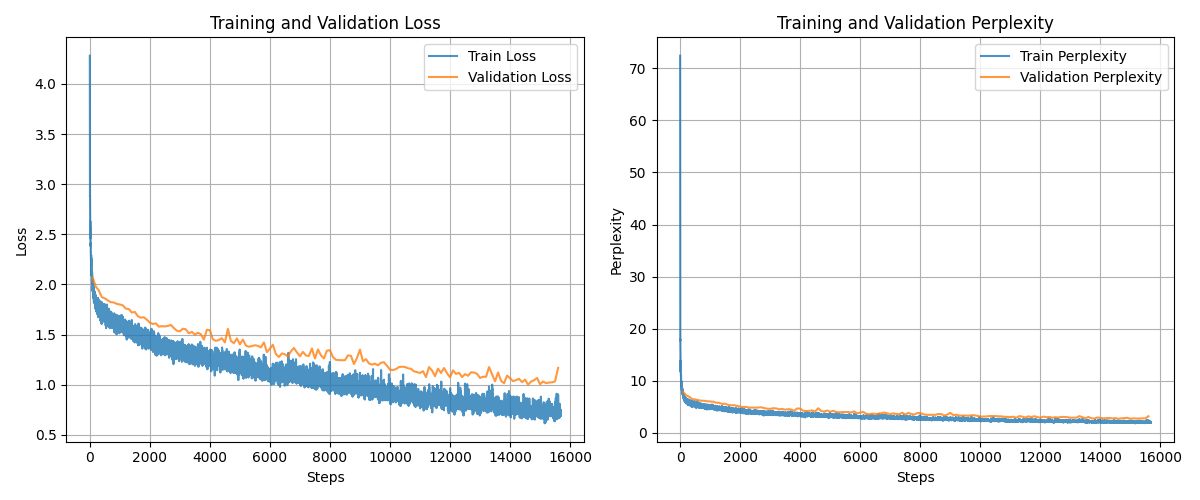
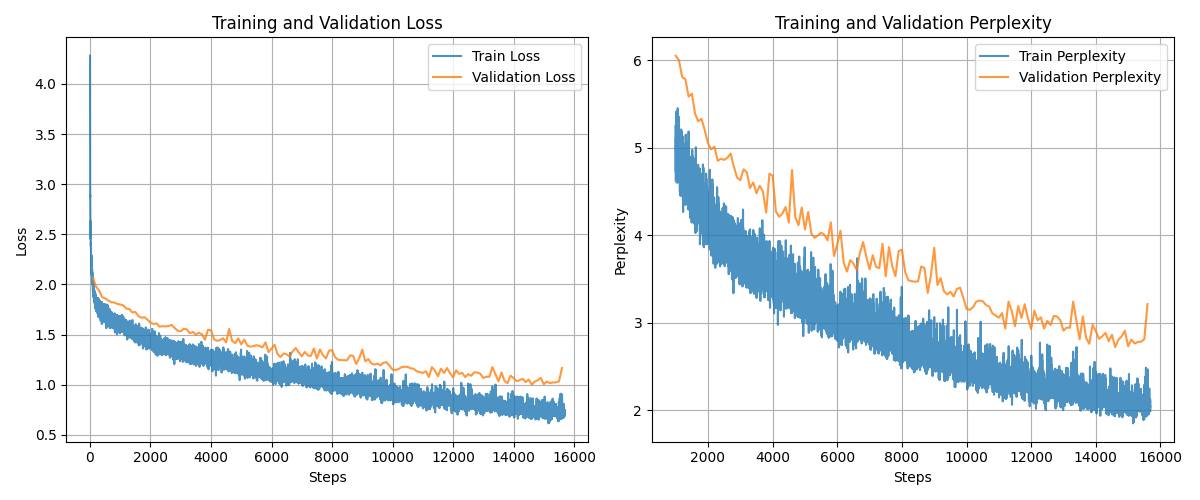
add differential transformer

diff --git a/models/transformer/attention.py b/models/transformer/attention.py
@@ -1,10 +1,29 @@
 import math
-from typing import Optional
+from typing import Optional, Tuple
 
 import torch
 from torch import nn
 
 from config import TransformerConfig
+from models.transformer.layer_norm import RMSNorm
+
+
+def get_rope_embedding(config: TransformerConfig) -> Tuple[torch.Tensor, torch.Tensor]:
+    head_dim = config.hidden_size // config.num_heads
+    # Get theta
+    i = torch.arange(0, head_dim, step=2).float()
+    theta = config.base ** (-i / head_dim)
+    # Get tensor of positions x theta
+    pos = torch.arange(0, config.seq_len).float()
+    m_theta = torch.outer(pos, theta)  # (seq_len, hidden_size/2)
+    # Get cos and sin
+    cos_m_theta = torch.cos(m_theta)  # (seq_len, hidden_size/2)
+    sin_m_theta = torch.sin(m_theta)  # (seq_len, hidden_size/2)
+    # Repeat each value to get (cos1,cos1,cos2,cos2,...) and (sin1,sin1,sin2,sin2,...)
+    cos_m_theta = cos_m_theta.repeat_interleave(2, dim=1)  # (seq_len, hidden_size)
+    sin_m_theta = sin_m_theta.repeat_interleave(2, dim=1)  # (seq_len, hidden_size)
+
+    return cos_m_theta.to(config.device), sin_m_theta.to(config.device)
 
 
 class MultiHeadAttention(nn.Module):
@@ -14,7 +33,7 @@ class MultiHeadAttention(nn.Module):
         self.head_dim = config.hidden_size // config.num_heads
         self.is_rope = is_rope
         if self.is_rope:
-            self.cos_pos_emb, self.sin_pos_emb = self._get_rope_embedding()
+            self.cos_pos_emb, self.sin_pos_emb = get_rope_embedding(config)
 
         hidden_size = config.hidden_size
         self.q_proj = nn.Linear(hidden_size, hidden_size, bias=False)
@@ -22,26 +41,10 @@ class MultiHeadAttention(nn.Module):
         self.v_proj = nn.Linear(hidden_size, hidden_size, bias=False)
         self.o_proj = nn.Linear(hidden_size, hidden_size, bias=False)
 
-    def _get_rope_embedding(self) -> torch.Tensor:
-        # Get theta
-        i = torch.arange(0, self.head_dim, step=2).float()
-        theta = self.config.base ** (-i / self.head_dim)
-        # Get tensor of positions x theta
-        pos = torch.arange(0, self.config.seq_len).float()
-        m_theta = torch.outer(pos, theta)  # (seq_len, hidden_size/2)
-        # Get cos and sin
-        cos_m_theta = torch.cos(m_theta)  # (seq_len, hidden_size/2)
-        sin_m_theta = torch.sin(m_theta)  # (seq_len, hidden_size/2)
-        # Repeat each value to get (cos1,cos1,cos2,cos2,...) and (sin1,sin1,sin2,sin2,...)
-        cos_m_theta = cos_m_theta.repeat_interleave(2, dim=1)  # (seq_len, hidden_size)
-        sin_m_theta = sin_m_theta.repeat_interleave(2, dim=1)  # (seq_len, hidden_size)
-
-        return cos_m_theta.to(self.config.device), sin_m_theta.to(self.config.device)
-
     def apply_rope_embedding(self, x: torch.Tensor) -> torch.Tensor:
-        batch_size, seq_len, _ = x.size()
-        cos_pos_emb = self.cos_pos_emb[:seq_len, :].unsqueeze(0)
-        sin_pos_emb = self.sin_pos_emb[:seq_len, :].unsqueeze(0)
+        batch_size, _, seq_len, _ = x.size()
+        cos_pos_emb = self.cos_pos_emb[:seq_len, :].unsqueeze(0).unsqueeze(0)
+        sin_pos_emb = self.sin_pos_emb[:seq_len, :].unsqueeze(0).unsqueeze(0)
         inv_x = torch.stack((-x[..., 1::2], x[..., ::2]), dim=-1).flatten(-2)
         return x * cos_pos_emb + inv_x * sin_pos_emb
 
@@ -66,9 +69,8 @@ class MultiHeadAttention(nn.Module):
         ).transpose(1, 2)
         # Apply rope embedding if provided
         if self.is_rope:
-            for i in range(self.config.num_heads):
-                q[:, i, :, :] = self.apply_rope_embedding(q[:, i, :, :])
-                k[:, i, :, :] = self.apply_rope_embedding(k[:, i, :, :])
+            q = self.apply_rope_embedding(q)
+            k = self.apply_rope_embedding(k)
         # Compute attention
         attn_scores = torch.matmul(q, k.transpose(-2, -1)) / math.sqrt(self.head_dim)
         # Apply mask by setting masked positions to -inf
@@ -76,6 +78,93 @@ class MultiHeadAttention(nn.Module):
             attn_scores = attn_scores.masked_fill(mask, torch.finfo(torch.float).min)
         attn_weights = torch.softmax(attn_scores, dim=-1)
         output = torch.matmul(attn_weights, v)
+        # Join back the heads
+        batch_size, _, seq_len, _ = output.size()
+        output = output.transpose(1, 2).contiguous().view(batch_size, seq_len, -1)
+        output = self.o_proj(output)
+        return output
+
+
+class MultiHeadDifferentialAttention(nn.Module):
+    def __init__(
+        self, config: TransformerConfig, layer_id: int, is_rope: bool = False
+    ) -> None:
+        super().__init__()
+        self.config = config
+        self.head_dim = config.hidden_size // config.num_heads
+        self.qk_head_dim = self.head_dim // 2
+
+        self.is_rope = is_rope
+        if self.is_rope:
+            self.cos_pos_emb, self.sin_pos_emb = get_rope_embedding(config)
+
+        hidden_size = config.hidden_size
+        self.q_proj = nn.Linear(hidden_size, hidden_size, bias=False)
+        self.k_proj = nn.Linear(hidden_size, hidden_size, bias=False)
+        self.v_proj = nn.Linear(hidden_size, hidden_size, bias=False)
+        self.o_proj = nn.Linear(hidden_size, hidden_size, bias=False)
+
+        self.lambda_init = 0.8 - 0.6 * math.exp(-0.3 * layer_id)
+        self.lambda_q1 = nn.Parameter(torch.normal(0, 0.1, size=(self.head_dim,)))
+        self.lambda_k1 = nn.Parameter(torch.normal(0, 0.1, size=(self.head_dim,)))
+        self.lambda_q2 = nn.Parameter(torch.normal(0, 0.1, size=(self.head_dim,)))
+        self.lambda_k2 = nn.Parameter(torch.normal(0, 0.1, size=(self.head_dim,)))
+        self.group_norm = RMSNorm(self.head_dim)
+
+    def apply_rope_embedding(self, x: torch.Tensor) -> torch.Tensor:
+        batch_size, _, _, seq_len, head_dim = x.size()
+        cos_pos_emb = (
+            self.cos_pos_emb[:seq_len, :head_dim].unsqueeze(0).unsqueeze(0).unsqueeze(0)
+        )
+        sin_pos_emb = (
+            self.sin_pos_emb[:seq_len, :head_dim].unsqueeze(0).unsqueeze(0).unsqueeze(0)
+        )
+        inv_x = torch.stack((-x[..., 1::2], x[..., ::2]), dim=-1).flatten(-2)
+        return x * cos_pos_emb + inv_x * sin_pos_emb
+
+    def forward(
+        self,
+        q: torch.Tensor,
+        k: torch.Tensor,
+        v: torch.Tensor,
+        mask: Optional[torch.Tensor] = None,
+    ) -> torch.Tensor:
+        q, k, v = self.q_proj(q), self.k_proj(k), self.v_proj(v)
+        # Reshape q, k, v to match the number of heads
+        # q, k: (b_size, 2, n_heads, seq_len, head_dim/2)
+        # v: (b_size, n_heads, seq_len, head_dim)
+        q = q.view(
+            q.size(0), q.size(1), self.config.num_heads, 2, self.qk_head_dim
+        ).transpose(1, 3)
+        k = k.view(
+            k.size(0), k.size(1), self.config.num_heads, 2, self.qk_head_dim
+        ).transpose(1, 3)
+        v = v.view(
+            v.size(0), v.size(1), self.config.num_heads, self.head_dim
+        ).transpose(1, 2)
+        # Apply rope embedding if provided
+        if self.is_rope:
+            q = self.apply_rope_embedding(q)
+            k = self.apply_rope_embedding(k)
+        # Compute attention
+        attn_scores = torch.matmul(q, k.transpose(-2, -1)) / math.sqrt(self.qk_head_dim)
+        # Apply mask by setting masked positions to -inf
+        if mask is not None:
+            attn_scores = attn_scores.masked_fill(mask, torch.finfo(torch.float).min)
+        # Compute softmax differential
+        lambda_1 = torch.exp(torch.sum(self.lambda_q1 * self.lambda_k1, dim=-1)).to(
+            self.config.device
+        )
+        lambda_2 = torch.exp(torch.sum(self.lambda_q2 * self.lambda_k2, dim=-1)).to(
+            self.config.device
+        )
+        lambda_sum = lambda_1 - lambda_2 + self.lambda_init
+        attn_weights = torch.softmax(
+            attn_scores[:, 0, ...], dim=-1
+        ) - lambda_sum * torch.softmax(attn_scores[:, 1, ...], dim=-1)
+        output = torch.matmul(attn_weights, v)
+        # Group norm
+        output = (1 - self.lambda_init) * self.group_norm(output)
         # Join back the heads
         batch_size, _, seq_len, _ = output.size()
         output = output.transpose(1, 2).contiguous().view(batch_size, seq_len, -1)

diff --git a/train.py b/train.py
@@ -11,7 +11,7 @@ from torch.utils.tensorboard import SummaryWriter
 from tqdm import tqdm
 
 from config import TransformerConfig
-from models.transformer.transformer import Transformer
+from models.transformer.transformer import DifferentialTransformer, Transformer
 from utils.tokenizer import Tokenizer
 
 
@@ -60,7 +60,7 @@ def cosine_lr_schedule(step: int, max_steps: int) -> float:
 
 
 def validate(
-    model: Union[Transformer],
+    model: Union[Transformer, DifferentialTransformer],
     tokenizer: Tokenizer,
     val_dataloader: DataLoader,
 ):
@@ -94,12 +94,21 @@ def plot_graphs(train_losses, val_losses, steps):
     plt.legend()
     plt.grid(True)
 
+    # Filter data from step 1000 onwards
+    start_idx = next(i for i, step in enumerate(steps) if step >= 1000)
+    filtered_steps = steps[start_idx:]
+    filtered_train_losses = train_losses[start_idx:]
+    val_steps = [args.eval_every * (i + 1) for i in range(len(val_losses))]
+    val_start_idx = next(i for i, step in enumerate(val_steps) if step >= 1000)
+    filtered_val_steps = val_steps[val_start_idx:]
+    filtered_val_losses = val_losses[val_start_idx:]
+
     # Plot perplexity
     plt.subplot(1, 2, 2)
-    train_ppl = [torch.exp(torch.tensor(loss)).item() for loss in train_losses]
-    val_ppl = [torch.exp(torch.tensor(loss)).item() for loss in val_losses]
-    plt.plot(steps, train_ppl, label="Train Perplexity", alpha=0.8)
-    plt.plot(val_steps, val_ppl, label="Validation Perplexity", alpha=0.8)
+    train_ppl = [torch.exp(torch.tensor(loss)).item() for loss in filtered_train_losses]
+    val_ppl = [torch.exp(torch.tensor(loss)).item() for loss in filtered_val_losses]
+    plt.plot(filtered_steps, train_ppl, label="Train Perplexity", alpha=0.8)
+    plt.plot(filtered_val_steps, val_ppl, label="Validation Perplexity", alpha=0.8)
     plt.xlabel("Steps")
     plt.ylabel("Perplexity")
     plt.title("Training and Validation Perplexity")
@@ -152,6 +161,18 @@ def train():
             base=10000.0,
         )
         model = Transformer(config=config).to(args.device)
+    elif args.model_type == "diff-transformer":
+        config = TransformerConfig(
+            seq_len=args.seq_len,
+            vocab_size=tokenizer.vocab_size,
+            device=args.device,
+            num_layers=4,
+            hidden_size=128,
+            ffn_size=128 * 4 * 2 // 3,
+            num_heads=4,
+            base=10000.0,
+        )
+        model = DifferentialTransformer(config=config).to(args.device)
     else:
         raise ValueError(f"Model type {args.model_type} not supported")
 
@@ -259,8 +280,8 @@ def parse_args():
         "--model-type",
         type=str,
         default="transformer",
-        choices=["transformer"],
-        help="Model type (currently only transformer is supported)",
+        choices=["transformer", "diff-transformer"],
+        help="Model type",
     )
     parser.add_argument(
         "--seq-len", type=int, default=32, help="Max sequence length of the model"

diff --git a/models/transformer/transformer.py b/models/transformer/transformer.py
@@ -7,7 +7,7 @@ import torch.nn.functional as F
 from torch import nn
 
 from config import TransformerConfig
-from models.transformer.block import DecoderBlock
+from models.transformer.block import DecoderBlock, DifferentialDecoderBlock
 
 
 class Transformer(nn.Module):
@@ -35,6 +35,55 @@ class Transformer(nn.Module):
         # Expand mask for batch size and number of heads
         causal_mask = causal_mask.unsqueeze(0).unsqueeze(0)
         causal_mask = causal_mask.expand(batch_size, 1, seq_len, seq_len).to(x.device)
+
+        return pad_mask | causal_mask
+
+    def forward(
+        self, input_ids: torch.Tensor, labels: Optional[torch.Tensor] = None
+    ) -> torch.Tensor:
+        causal_mask = self._make_padded_causal_mask(input_ids)
+
+        inputs = self.token_emb(input_ids)
+        for block in self.decoder:
+            inputs = block(inputs, causal_mask)
+        logits = self.lm_head(inputs)
+
+        loss = None
+        if labels is not None:
+            loss = F.cross_entropy(
+                logits.view(-1, self.config.vocab_size), labels.view(-1)
+            )
+
+        return logits, loss
+
+
+class DifferentialTransformer(nn.Module):
+    def __init__(self, config: TransformerConfig):
+        super().__init__()
+        self.config = config
+
+        self.token_emb = nn.Embedding(config.vocab_size, config.hidden_size)
+        self.decoder = nn.ModuleList(
+            [DifferentialDecoderBlock(config, i) for i in range(config.num_layers)]
+        )
+        self.lm_head = nn.Linear(config.hidden_size, config.vocab_size)
+
+    def _make_padded_causal_mask(self, x: torch.Tensor) -> torch.Tensor:
+        """Creates a causal mask which prevents attending to padding tokens."""
+        # Create padding mask (b_size, 1, seq_len, 1)
+        # No padding in this training so pad_mask is always False
+        pad_mask = torch.zeros(x.size(0), 1, 1, x.size(1), 1, dtype=torch.bool).to(
+            x.device
+        )
+        # Create causal mask
+        batch_size, seq_len = x.size(0), x.size(1)
+        # Create upper triangular matrix
+        causal_mask = torch.triu(torch.ones(seq_len, seq_len), diagonal=1).bool()
+        # Expand mask for batch size and number of heads
+        causal_mask = causal_mask.unsqueeze(0).unsqueeze(0).unsqueeze(0)
+        causal_mask = causal_mask.expand(batch_size, 1, 1, seq_len, seq_len).to(
+            x.device
+        )
 
         return pad_mask | causal_mask
 

diff --git a/models/transformer/block.py b/models/transformer/block.py
@@ -2,7 +2,10 @@ import torch
 from torch import nn
 
 from config import TransformerConfig
-from models.transformer.attention import MultiHeadAttention
+from models.transformer.attention import (
+    MultiHeadAttention,
+    MultiHeadDifferentialAttention,
+)
 from models.transformer.feed_forward import SwiGLUFeedForwardLayer
 from models.transformer.layer_norm import RMSNorm
 
@@ -12,6 +15,25 @@ class DecoderBlock(nn.Module):
         super().__init__()
         self.config = config
         self.attn = MultiHeadAttention(config, is_rope=True)
+        self.ffn = SwiGLUFeedForwardLayer(config.hidden_size, config.ffn_size)
+        self.rms_norm = RMSNorm((config.seq_len, config.hidden_size))
+
+    def forward(self, x: torch.Tensor, causal_mask: torch.Tensor) -> torch.Tensor:
+        # Attention with causal mask
+        x = self.rms_norm(x)
+        x = x + self.attn(x, x, x, mask=causal_mask)
+        # Feed-forward
+        x = self.rms_norm(x)
+        x = x + self.ffn(x)
+
+        return x
+
+
+class DifferentialDecoderBlock(nn.Module):
+    def __init__(self, config: TransformerConfig, layer_id: int) -> None:
+        super().__init__()
+        self.config = config
+        self.attn = MultiHeadDifferentialAttention(config, layer_id, is_rope=True)
         self.ffn = SwiGLUFeedForwardLayer(config.hidden_size, config.ffn_size)
         self.rms_norm = RMSNorm((config.seq_len, config.hidden_size))
 

diff --git a/README.md b/README.md
@@ -63,3 +63,34 @@ Total number of parameters: 1,112,781
 </div>
 
 The validation loss converges to about 1.02. To obtain a more meaningful understanding of what this value means, we can calculate the perplexity. The perplexity is also equivalent to how many tokens the model is choosing between randomly at each step. From the perplexity plot, we can see that validation loss of 1.02 corresponds to perplexity of about 2.75. This means that on average, the model is choosing between 2.75 tokens at each step, which is much better than random guessing (perplexity of 65 for a 65-token vocabulary). This seems to indicate that the model has learnt and generalized reasonably well to the validation set without overfitting to the training data.
+
+
+### Differential Transformer
+
+[Differential Transformer](https://arxiv.org/abs/2410.05258) is a variant of the Transformer model that uses differential attention (the difference between two softmax attention maps) to amplify attention to the relevant context and cancel noise (reduce the amount of attention to all the other irrelevant tokens). This model architecture is similar to Llama with the main difference being the use of Multi-Head Differential Attention instead of the standard Multi-Head Attention.
+
+#### Model Architecture
+
+| Parameter | Value |
+|-----------|--------|
+| num_layers | 4 |
+| num_heads | 4 (Half of standard Transformer) |
+| d_model | 128 |
+| d_feedforward | 341 (2/3 x 4 x d_model) |
+| dropout | None |
+| positional_embedding | RoPE |
+| RoPE theta base | 10000.0 |
+| Normalization | pre-RMSNorm |
+| Activation Function | SwiGLU |
+
+Total number of parameters: 1,113,421
+
+#### Results
+
+<div style="display: flex; flex-wrap: wrap; justify-content: center;">
+    <div style="width: 100%;">
+        <img src="images/differential_transformer_results.png" width="100%">
+    </div>
+</div>
+
+Validation loss and perplexity converges to 1.18 and 3.25 respectively. On average, the model is choosing between 3.25 tokens randomly at each steo. This is comparable to the standard Transformer model.
